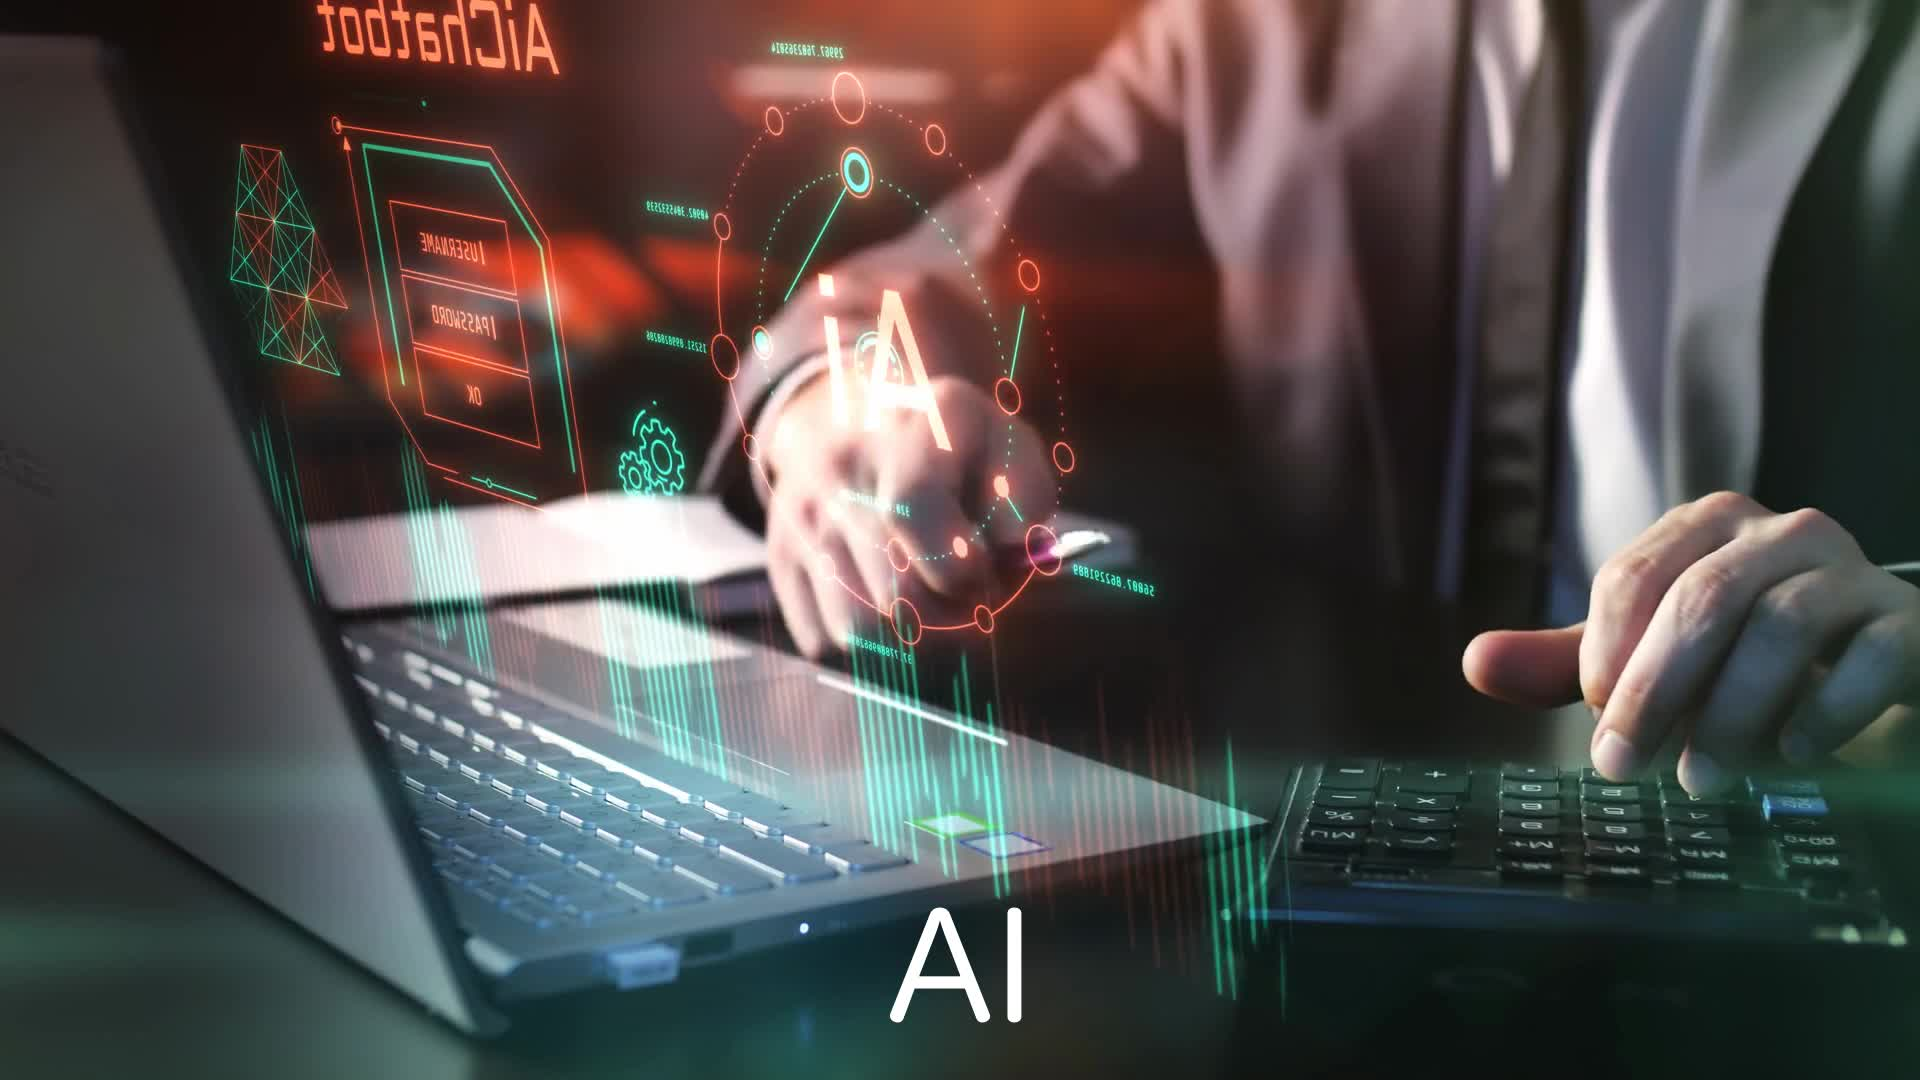
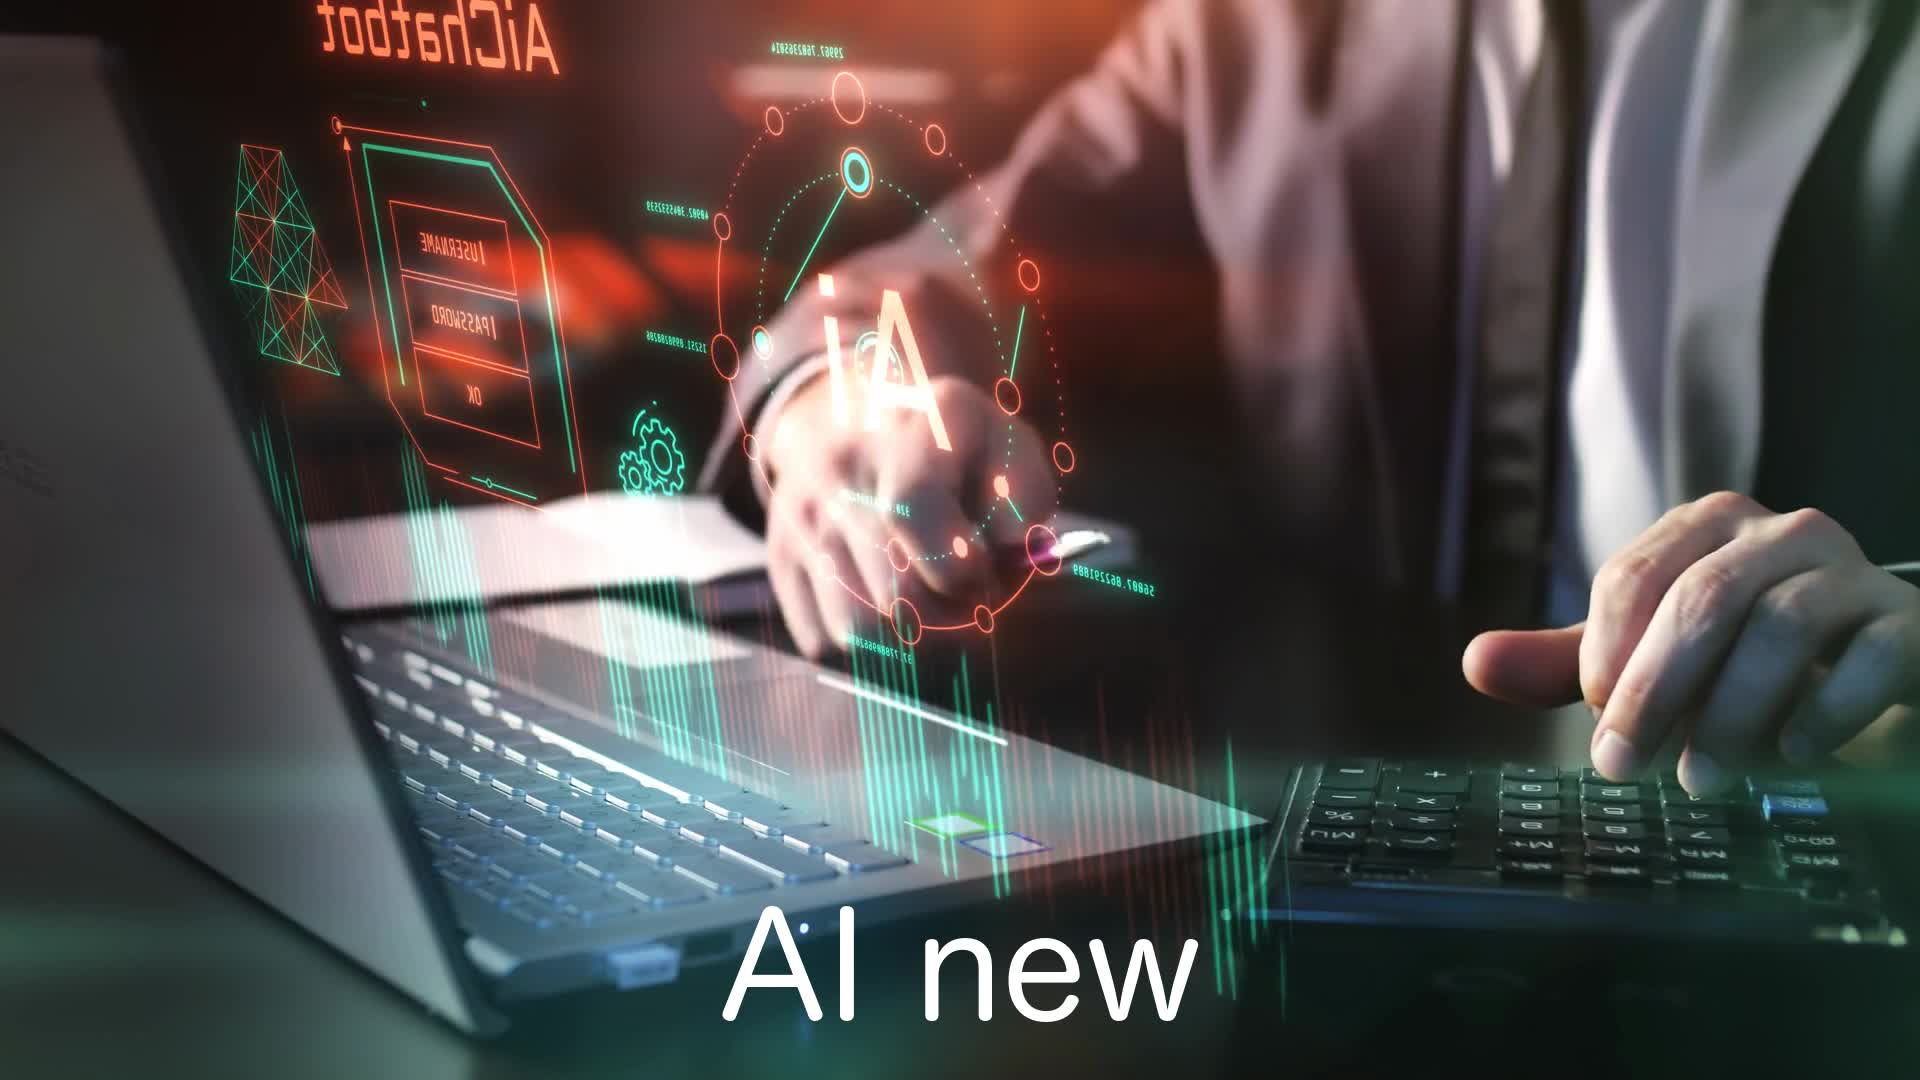
Thumbnails are now updated when video title is edited
- works correctly now

Changed region(s): [[0.375, 0.825, 0.625, 0.9472]]

diff --git a/content/tasks.py b/content/tasks.py
@@ -16,6 +16,12 @@ def create_video_screenshot(video_path, output_image_path, time="00:00:05"):
     if not os.path.exists(video_path):
         print(f"Video-Datei nicht gefunden: {video_path}")
         return    
+    
+    # Überprüfen, ob das Zielbild bereits existiert und es löschen
+    print(f'output_image_path: {output_image_path}')
+    if os.path.isfile(output_image_path):
+        os.remove(output_image_path)
+        print(f'Vorhandene Screenshot-Datei gelöscht: {output_image_path}')
 
     try:
         command = [
@@ -38,19 +44,19 @@ def delete_original_video(video_path):
         os.remove(video_path)
 
 
-# def delete_original_screenshot(screenshot_with_text_path):
-#     if os.path.isfile(screenshot_with_text_path):
-#         os.remove(screenshot_with_text_path)
-
 def delete_original_screenshot(screenshot_with_text_path):
-    print(f'delete_screenshot_with_text: {screenshot_with_text_path}')
     if os.path.isfile(screenshot_with_text_path):
         os.remove(screenshot_with_text_path)
 
-# def delete_screenshot_with_text(screenshot_with_text_path):
+# def delete_original_screenshot(screenshot_with_text_path):
 #     print(f'delete_screenshot_with_text: {screenshot_with_text_path}')
 #     if os.path.isfile(screenshot_with_text_path):
 #         os.remove(screenshot_with_text_path)
+
+def delete_screenshot_with_text(screenshot_with_text_path):
+    print(f'delete_screenshot_with_text: {screenshot_with_text_path}')
+    if os.path.isfile(screenshot_with_text_path):
+        os.remove(screenshot_with_text_path)
 
 
 def create_thumbnail_with_text(image_path, video_title, fontsize=145, max_chars_per_line=25):

diff --git a/content/signals.py b/content/signals.py
@@ -3,7 +3,7 @@ from videoflix import settings
 from .models import VideoItem
 from django.dispatch import receiver
 from django.db.models.signals import pre_save, post_save, post_delete
-from content.tasks import convert_video, create_thumbnail_with_text, create_video_screenshot, delete_original_video, delete_original_screenshot
+from content.tasks import convert_video, create_thumbnail_with_text, create_video_screenshot, delete_original_video, delete_original_screenshot, delete_screenshot_with_text
 # , , delete_screenshot_with_text
 
 import os
@@ -24,7 +24,7 @@ def video_pre_save(sender, instance, **kwargs):
             print(f'screenshot_with_text_path: {screenshot_with_text_path}')
 
             queue = django_rq.get_queue('default', autocommit=True)
-            queue.enqueue(delete_original_screenshot, screenshot_with_text_path)
+            queue.enqueue(delete_screenshot_with_text, screenshot_with_text_path)
             queue.enqueue(create_thumbnail_with_text, screenshot_path, instance.title)
 
 
@@ -57,6 +57,7 @@ def video_post_delete(sender, instance, **kwargs):
     if instance.video_file:
         if os.path.isfile(instance.video_file.path):
             os.remove(instance.video_file.path)
+        
 
 
 

diff --git a/content/views.py b/content/views.py
@@ -44,7 +44,6 @@ class VideoItemViewSet(viewsets.ModelViewSet):
 def check_thumbnail_status(request, video_name):
     print('check_thumbnail_status')
     thumbnail_path = os.path.join(settings.MEDIA_ROOT, 'thumbnails', f'{video_name}_with_text.jpg')
-    print(f'Überprüfe Thumbnail-Pfad: {thumbnail_path}')
     
     if os.path.exists(thumbnail_path):
         return JsonResponse({"status": "completed"})
